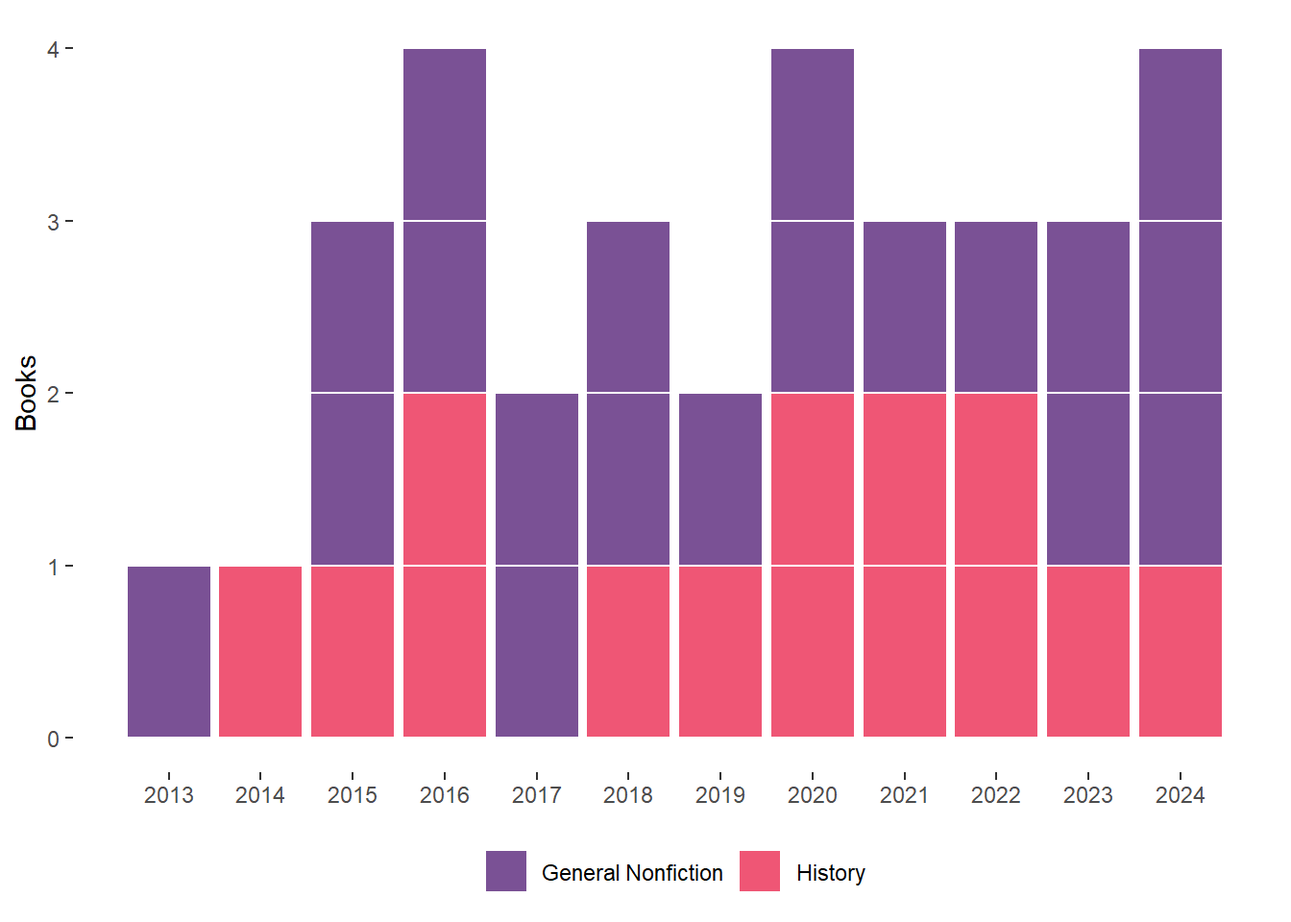
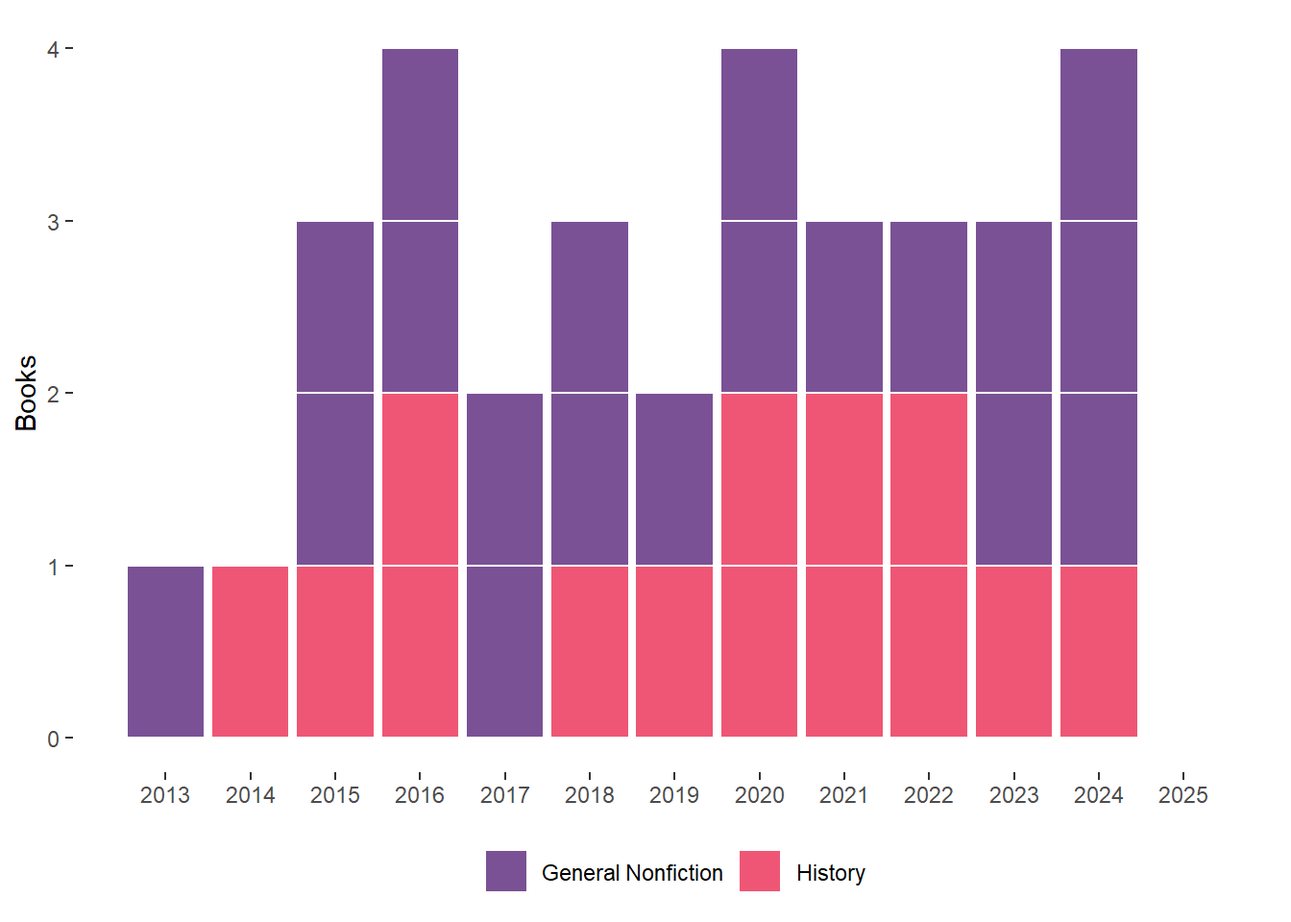
Add books read and update pulitzer list for 2025

diff --git a/pullitzer.html b/pullitzer.html
@@ -296,8 +296,8 @@ class="section level5">
 <h2>The full list</h2>
 <p>These are the finalists and winners of general nonfiction and
 history, and my progress in reading them.</p>
-<div class="reactable html-widget html-fill-item" id="htmlwidget-c6555e027a86d96b22d3" style="width:auto;height:auto;"></div>
-<script type="application/json" data-for="htmlwidget-c6555e027a86d96b22d3">{"x":{"tag":{"name":"Reactable","attribs":{"data":{"year":[2024,2024,2024,2024,2024,2024,2023,2023,2023,2023,2023,2023,2023,2022,2022,2022,2022,2022,2022,2021,2021,2021,2021,2021,2021,2020,2020,2020,2020,2020,2020,2019,2019,2019,2019,2019,2019,2018,2018,2018,2018,2018,2018,2017,2017,2017,2017,2017,2017,2016,2016,2016,2016,2016,2016,2016,2015,2015,2015,2015,2015,2015,2014,2014,2014,2014,2014,2014,2013,2013,2013,2013,2013,2013,2012,2012,2012,2012,2012,2012,2012,2011,2011,2011,2011,2011,2011,2010,2010,2010],"short.title":["No Right to an Honest Living","American Anarchy","Continental Reckoning","A Day in the Life of Abed Salama","Fire Weather","Cobalt Red","Freedom's Dominion","Seeing Red","Watergate","His Name Is George Floyd","Kingdom of Characters","Sounds Wild and Broken","Under the Skin","Covered with Night","Cuba","Until Justice Be Done","Invisible Child","Home, Land, Security","The Family Roe","Franchise","The Three-Cornered War","The Deviant's War","Wilmington's Lie","Minor Feelings","Yellow Bird","Sweet Taste of Liberty ","Race for Profit","The End of the Myth ","The Undying","Solitary","Elderhood","Frederick Douglass ","American Eden ","Civilizing Torture ","Amity and Prosperity","In a Day's Work","Rising","The Gulf","Fear City","Hitler in Los Angeles ","Locking Up Our Own ","Notes on a Foreign Country ","The Evolution of Beauty","Blood in the Water ","Brothers at Arms","New England Bound","Evicted","In a Different Key ","The Politics of Mourning ","Custer's Trials","Marching Home","Target Tokyo","The Pentagon's Brain","Black Flags","Between the World and Me","If the Oceans Were Ink ","Encounters at the Heart of the World","An Empire on the Edge","Empire of Cotton","The Sixth Extinction","Age of Ambition","No Good Men Among the Living","The Internal Enemy","A Dreadful Deceit","Command and Control","Toms River","The Blood Telegram","The Insurgents","Embers of War","Lincoln's Code","The Barbarous Years","Devil in the Grove","Behind the Beautiful Forevers","The Forest Unseen","Malcolm X","Empires, Nations & Families","Railroaded","The Eleventh Day","The Swerve","One Hundred Names For Love","Unnatural Selection","The Fiery Trial","Confederate Reckoning","Eden on the Charles","The Emperor of All Maladies","Empire of the Summer Moon","The Shallows","Lords of Finance","Empire of Liberty","Fordlandia"],"author":["Jacqueline Jones","Michael Willrich","Elliott West","Nathan Thrall","John Vaillant","Siddharth Kara","Jefferson Cowie","Michael John Witgen","Garrett M. Graff","Robert Samuels and Toluse Olorunnipa","Jing Tsu","David George Haskell","Linda Villarosa","Nicole Eustace","Ada Ferrer","Kate Masur","Andrea Elliott","Carla Power","Joshua Prager","Marcia Chatelain","Megan Kate Nelson","Eric Cervini","David Zucchino","Cathy Park Hong","Sierra Crane Murdoch","W. Caleb McDaniel","Keeanga-Yamhatta Taylor","Greg Grandin","Anne Boyer","Albert Woodfox","Louise Aronson","David W. Blight","Victoria Johnson","W. Fitzhugh Brundage","Eliza Griswold","Bernice Yeung","Elizabeth Rush","Jack E. Davis","Kim Phillips-Fein","Steven J. Ross","James Forman Jr.","Suzy Hansen","Richard O. Prum","Heather Ann Thompson","Larrie D. Ferreiro","Wendy Warren","Matthew Desmond","John Donvan and Caren Zucker","Micki McElya","T.J. Stiles","Brian Matthew Jordan","James M. Scott","Annie Jacobsen","Joby Warrick","Ta-Nehisi Coates","Carla Power","Elizabeth A. Fenn","Nick Bunker","Steven Beckert","Elizabeth Kolbert","Evan Osnos","Anand Gopal","Alan Taylor","Jacqueline Jones","Eric Schlosser","Dan Fagin","Gary J. Bass","Fred Kaplan","Fredrik Logeval","John Fabian Witt","Bernard Bailyn","Gilbert King","Katherine Boo","David George Haskell","Manning Marable","Anne F. Hyde","Richard White","Anthony Summers and Robbyn Swan","Stephen Greenblatt","Diane Ackerman","Mara Hvistendahl","Eric Foner","Stephanie McCurry","Michael Rawson","Siddhartha Mukherjee","S.C. Gwynne","Nicholas Carr","Liaquat Ahamed","Gordon S. Wood","Greg Grandin"],"read":["No","Yes","No","Yes","Yes","Yes","No","No","Yes","No","Yes","No","Yes","Yes","Yes","No","No","Yes","No","Yes","Yes","No","No","No","Yes","Yes","Yes","Yes","No","Yes","No","No","No","Yes","Yes","No","No","Yes","No","No","Yes","No","Yes","No","No","No","Yes","Yes","No","Yes","No","No","Yes","Yes","Yes","No","Yes","No","No","No","Yes","Yes","No","No","Yes","No","No","No","No","No","No","No","Yes","No","No","No","No","No","No","No","No","No","No","No","No","No","No","No","No","No"],"award":["Winner","Finalist","Finalist","Winner","Finalist","Finalist","Winner","Finalist","Finalist","Winner","Finalist","Finalist","Finalist","Winner","Winner","Finalist","Winner","Finalist","Finalist","Winner","Finalist","Finalist","Winner","Finalist","Finalist","Winner","Finalist","Winner","Winner","Finalist","Finalist","Winner","Finalist","Finalist","Winner","Finalist","Finalist","Winner","Finalist","Finalist","Winner","Finalist","Finalist","Winner","Finalist","Finalist","Winner","Finalist","Finalist","Winner","Finalist","Finalist","Finalist","Winner","Finalist","Finalist","Winner","Finalist","Finalist","Winner","Finalist","Finalist","Winner","Finalist","Finalist","Winner","Finalist","Finalist","Winner","Finalist","Finalist","Winner","Finalist","Finalist","Winner","Finalist","Finalist","Finalist","Winner","Finalist","Finalist","Winner","Finalist","Finalist","Winner","Finalist","Finalist","Winner","Finalist","Finalist"],"category":["History","History","History","General Non-Fiction","General Non-Fiction","General Non-Fiction","History","History","History","General Non-Fiction","General Non-Fiction","General Non-Fiction","General Non-Fiction","History","History","History","General Non-Fiction","General Non-Fiction","General Non-Fiction","History","History","History","General Non-Fiction","General Non-Fiction","General Non-Fiction","History","History","General Non-Fiction","General Non-Fiction","General Non-Fiction","General Non-Fiction","History","History","History","General Non-Fiction","General Non-Fiction","General Non-Fiction","History","History","History","General Non-Fiction","General Non-Fiction","General Non-Fiction","History","History","History","General Non-Fiction","General Non-Fiction","General Non-Fiction","History","History","History","History","General Non-Fiction","General Non-Fiction","General Non-Fiction","History","History","History","General Non-Fiction","General Non-Fiction","General Non-Fiction","History","History","History","General Non-Fiction","General Non-Fiction","General Non-Fiction","History","History","History","General Non-Fiction","General Non-Fiction","General Non-Fiction","History","History","History","History","General Non-Fiction","General Non-Fiction","General Non-Fiction","History","History","History","General Non-Fiction","General Non-Fiction","General Non-Fiction","History","History","History"]},"columns":[{"id":"year","name":"Year","type":"numeric"},{"id":"short.title","name":"Title","type":"character","minWidth":150},{"id":"author","name":"Author","type":"character"},{"id":"read","name":"Read","type":"character","cell":["❌","✔","❌","✔","✔","✔","❌","❌","✔","❌","✔","❌","✔","✔","✔","❌","❌","✔","❌","✔","✔","❌","❌","❌","✔","✔","✔","✔","❌","✔","❌","❌","❌","✔","✔","❌","❌","✔","❌","❌","✔","❌","✔","❌","❌","❌","✔","✔","❌","✔","❌","❌","✔","✔","✔","❌","✔","❌","❌","❌","✔","✔","❌","❌","✔","❌","❌","❌","❌","❌","❌","❌","✔","❌","❌","❌","❌","❌","❌","❌","❌","❌","❌","❌","❌","❌","❌","❌","❌","❌"],"maxWidth":75},{"id":"award","name":"Award","type":"character"},{"id":"category","name":"Category","type":"character"}],"defaultPageSize":20,"showSortable":true,"rowStyle":[null,{"fontWeight":"bold"},null,{"fontWeight":"bold"},{"fontWeight":"bold"},{"fontWeight":"bold"},null,null,{"fontWeight":"bold"},null,{"fontWeight":"bold"},null,{"fontWeight":"bold"},{"fontWeight":"bold"},{"fontWeight":"bold"},null,null,{"fontWeight":"bold"},null,{"fontWeight":"bold"},{"fontWeight":"bold"},null,null,null,{"fontWeight":"bold"},{"fontWeight":"bold"},{"fontWeight":"bold"},{"fontWeight":"bold"},null,{"fontWeight":"bold"},null,null,null,{"fontWeight":"bold"},{"fontWeight":"bold"},null,null,{"fontWeight":"bold"},null,null,{"fontWeight":"bold"},null,{"fontWeight":"bold"},null,null,null,{"fontWeight":"bold"},{"fontWeight":"bold"},null,{"fontWeight":"bold"},null,null,{"fontWeight":"bold"},{"fontWeight":"bold"},{"fontWeight":"bold"},null,{"fontWeight":"bold"},null,null,null,{"fontWeight":"bold"},{"fontWeight":"bold"},null,null,{"fontWeight":"bold"},null,null,null,null,null,null,null,{"fontWeight":"bold"},null,null,null,null,null,null,null,null,null,null,null,null,null,null,null,null,null],"dataKey":"73d61f52f0b6af35e8cd9219f96937dc"},"children":[]},"class":"reactR_markup"},"evals":[],"jsHooks":[]}</script>
+<div class="reactable html-widget html-fill-item" id="htmlwidget-2825f1b96f14a9cafac9" style="width:auto;height:auto;"></div>
+<script type="application/json" data-for="htmlwidget-2825f1b96f14a9cafac9">{"x":{"tag":{"name":"Reactable","attribs":{"data":{"year":[2025,2025,2025,2025,2025,2025,2024,2024,2024,2024,2024,2024,2023,2023,2023,2023,2023,2023,2023,2022,2022,2022,2022,2022,2022,2021,2021,2021,2021,2021,2021,2020,2020,2020,2020,2020,2020,2019,2019,2019,2019,2019,2019,2018,2018,2018,2018,2018,2018,2017,2017,2017,2017,2017,2017,2016,2016,2016,2016,2016,2016,2016,2015,2015,2015,2015,2015,2015,2014,2014,2014,2014,2014,2014,2013,2013,2013,2013,2013,2013,2012,2012,2012,2012,2012,2012,2012,2011,2011,2011,2011,2011,2011,2010,2010,2010],"short.title":["Combee","Native Nations","Plantation Goods","To the Success of Our Hopeless Cause","I Am on the Hit List","Until I Find You","No Right to an Honest Living","American Anarchy","Continental Reckoning","A Day in the Life of Abed Salama","Fire Weather","Cobalt Red","Freedom's Dominion","Seeing Red","Watergate","His Name Is George Floyd","Kingdom of Characters","Sounds Wild and Broken","Under the Skin","Covered with Night","Cuba","Until Justice Be Done","Invisible Child","Home, Land, Security","The Family Roe","Franchise","The Three-Cornered War","The Deviant's War","Wilmington's Lie","Minor Feelings","Yellow Bird","Sweet Taste of Liberty ","Race for Profit","The End of the Myth ","The Undying","Solitary","Elderhood","Frederick Douglass ","American Eden ","Civilizing Torture ","Amity and Prosperity","In a Day's Work","Rising","The Gulf","Fear City","Hitler in Los Angeles ","Locking Up Our Own ","Notes on a Foreign Country ","The Evolution of Beauty","Blood in the Water ","Brothers at Arms","New England Bound","Evicted","In a Different Key ","The Politics of Mourning ","Custer's Trials","Marching Home","Target Tokyo","The Pentagon's Brain","Black Flags","Between the World and Me","If the Oceans Were Ink ","Encounters at the Heart of the World","An Empire on the Edge","Empire of Cotton","The Sixth Extinction","Age of Ambition","No Good Men Among the Living","The Internal Enemy","A Dreadful Deceit","Command and Control","Toms River","The Blood Telegram","The Insurgents","Embers of War","Lincoln's Code","The Barbarous Years","Devil in the Grove","Behind the Beautiful Forevers","The Forest Unseen","Malcolm X","Empires, Nations & Families","Railroaded","The Eleventh Day","The Swerve","One Hundred Names For Love","Unnatural Selection","The Fiery Trial","Confederate Reckoning","Eden on the Charles","The Emperor of All Maladies","Empire of the Summer Moon","The Shallows","Lords of Finance","Empire of Liberty","Fordlandia"],"author":["Edda L. Fields-Black","Kathleen DuVal","Seth Rockman","Benjamin Nathans","Rollo Romig","Rachel Nolan","Jacqueline Jones","Michael Willrich","Elliott West","Nathan Thrall","John Vaillant","Siddharth Kara","Jefferson Cowie","Michael John Witgen","Garrett M. Graff","Robert Samuels and Toluse Olorunnipa","Jing Tsu","David George Haskell","Linda Villarosa","Nicole Eustace","Ada Ferrer","Kate Masur","Andrea Elliott","Carla Power","Joshua Prager","Marcia Chatelain","Megan Kate Nelson","Eric Cervini","David Zucchino","Cathy Park Hong","Sierra Crane Murdoch","W. Caleb McDaniel","Keeanga-Yamhatta Taylor","Greg Grandin","Anne Boyer","Albert Woodfox","Louise Aronson","David W. Blight","Victoria Johnson","W. Fitzhugh Brundage","Eliza Griswold","Bernice Yeung","Elizabeth Rush","Jack E. Davis","Kim Phillips-Fein","Steven J. Ross","James Forman Jr.","Suzy Hansen","Richard O. Prum","Heather Ann Thompson","Larrie D. Ferreiro","Wendy Warren","Matthew Desmond","John Donvan and Caren Zucker","Micki McElya","T.J. Stiles","Brian Matthew Jordan","James M. Scott","Annie Jacobsen","Joby Warrick","Ta-Nehisi Coates","Carla Power","Elizabeth A. Fenn","Nick Bunker","Steven Beckert","Elizabeth Kolbert","Evan Osnos","Anand Gopal","Alan Taylor","Jacqueline Jones","Eric Schlosser","Dan Fagin","Gary J. Bass","Fred Kaplan","Fredrik Logeval","John Fabian Witt","Bernard Bailyn","Gilbert King","Katherine Boo","David George Haskell","Manning Marable","Anne F. Hyde","Richard White","Anthony Summers and Robbyn Swan","Stephen Greenblatt","Diane Ackerman","Mara Hvistendahl","Eric Foner","Stephanie McCurry","Michael Rawson","Siddhartha Mukherjee","S.C. Gwynne","Nicholas Carr","Liaquat Ahamed","Gordon S. Wood","Greg Grandin"],"read":["No","No","No","No","No","No","No","Yes","No","Yes","Yes","Yes","No","No","Yes","No","Yes","No","Yes","Yes","Yes","No","No","Yes","No","Yes","Yes","No","No","No","Yes","Yes","Yes","Yes","No","Yes","No","No","No","Yes","Yes","No","No","Yes","No","No","Yes","No","Yes","No","No","No","Yes","Yes","No","Yes","No","No","Yes","Yes","Yes","No","Yes","No","No","No","Yes","Yes","No","No","Yes","No","No","No","No","No","No","No","Yes","No","No","No","No","No","No","No","No","No","No","No","No","No","No","No","No","No"],"award":["Winner","Winner","Finalist","Winner","Finalist","Finalist","Winner","Finalist","Finalist","Winner","Finalist","Finalist","Winner","Finalist","Finalist","Winner","Finalist","Finalist","Finalist","Winner","Winner","Finalist","Winner","Finalist","Finalist","Winner","Finalist","Finalist","Winner","Finalist","Finalist","Winner","Finalist","Winner","Winner","Finalist","Finalist","Winner","Finalist","Finalist","Winner","Finalist","Finalist","Winner","Finalist","Finalist","Winner","Finalist","Finalist","Winner","Finalist","Finalist","Winner","Finalist","Finalist","Winner","Finalist","Finalist","Finalist","Winner","Finalist","Finalist","Winner","Finalist","Finalist","Winner","Finalist","Finalist","Winner","Finalist","Finalist","Winner","Finalist","Finalist","Winner","Finalist","Finalist","Winner","Finalist","Finalist","Winner","Finalist","Finalist","Finalist","Winner","Finalist","Finalist","Winner","Finalist","Finalist","Winner","Finalist","Finalist","Winner","Finalist","Finalist"],"category":["History","History","History","General Non-Fiction","General Non-Fiction","General Non-Fiction","History","History","History","General Non-Fiction","General Non-Fiction","General Non-Fiction","History","History","History","General Non-Fiction","General Non-Fiction","General Non-Fiction","General Non-Fiction","History","History","History","General Non-Fiction","General Non-Fiction","General Non-Fiction","History","History","History","General Non-Fiction","General Non-Fiction","General Non-Fiction","History","History","General Non-Fiction","General Non-Fiction","General Non-Fiction","General Non-Fiction","History","History","History","General Non-Fiction","General Non-Fiction","General Non-Fiction","History","History","History","General Non-Fiction","General Non-Fiction","General Non-Fiction","History","History","History","General Non-Fiction","General Non-Fiction","General Non-Fiction","History","History","History","History","General Non-Fiction","General Non-Fiction","General Non-Fiction","History","History","History","General Non-Fiction","General Non-Fiction","General Non-Fiction","History","History","History","General Non-Fiction","General Non-Fiction","General Non-Fiction","History","History","History","General Non-Fiction","General Non-Fiction","General Non-Fiction","History","History","History","History","General Non-Fiction","General Non-Fiction","General Non-Fiction","History","History","History","General Non-Fiction","General Non-Fiction","General Non-Fiction","History","History","History"]},"columns":[{"id":"year","name":"Year","type":"numeric"},{"id":"short.title","name":"Title","type":"character","minWidth":150},{"id":"author","name":"Author","type":"character"},{"id":"read","name":"Read","type":"character","cell":["❌","❌","❌","❌","❌","❌","❌","✔","❌","✔","✔","✔","❌","❌","✔","❌","✔","❌","✔","✔","✔","❌","❌","✔","❌","✔","✔","❌","❌","❌","✔","✔","✔","✔","❌","✔","❌","❌","❌","✔","✔","❌","❌","✔","❌","❌","✔","❌","✔","❌","❌","❌","✔","✔","❌","✔","❌","❌","✔","✔","✔","❌","✔","❌","❌","❌","✔","✔","❌","❌","✔","❌","❌","❌","❌","❌","❌","❌","✔","❌","❌","❌","❌","❌","❌","❌","❌","❌","❌","❌","❌","❌","❌","❌","❌","❌"],"maxWidth":75},{"id":"award","name":"Award","type":"character"},{"id":"category","name":"Category","type":"character"}],"defaultPageSize":20,"showSortable":true,"rowStyle":[null,null,null,null,null,null,null,{"fontWeight":"bold"},null,{"fontWeight":"bold"},{"fontWeight":"bold"},{"fontWeight":"bold"},null,null,{"fontWeight":"bold"},null,{"fontWeight":"bold"},null,{"fontWeight":"bold"},{"fontWeight":"bold"},{"fontWeight":"bold"},null,null,{"fontWeight":"bold"},null,{"fontWeight":"bold"},{"fontWeight":"bold"},null,null,null,{"fontWeight":"bold"},{"fontWeight":"bold"},{"fontWeight":"bold"},{"fontWeight":"bold"},null,{"fontWeight":"bold"},null,null,null,{"fontWeight":"bold"},{"fontWeight":"bold"},null,null,{"fontWeight":"bold"},null,null,{"fontWeight":"bold"},null,{"fontWeight":"bold"},null,null,null,{"fontWeight":"bold"},{"fontWeight":"bold"},null,{"fontWeight":"bold"},null,null,{"fontWeight":"bold"},{"fontWeight":"bold"},{"fontWeight":"bold"},null,{"fontWeight":"bold"},null,null,null,{"fontWeight":"bold"},{"fontWeight":"bold"},null,null,{"fontWeight":"bold"},null,null,null,null,null,null,null,{"fontWeight":"bold"},null,null,null,null,null,null,null,null,null,null,null,null,null,null,null,null,null],"dataKey":"6bc2ac156935ea66a441aca3f95cc2f5"},"children":[]},"class":"reactR_markup"},"evals":[],"jsHooks":[]}</script>
 </div>
 
 

diff --git a/index.html b/index.html
@@ -290,13 +290,13 @@ that.</p>
 <h3>How I’m doing</h3>
 <p>There was early progress, and then a decline, and I’m working my way
 back. It’s a journey.</p>
-<div class="plotly html-widget html-fill-item" id="htmlwidget-57f883591b92fb9cdf9b" style="width:100%;height:480px;"></div>
-<script type="application/json" data-for="htmlwidget-57f883591b92fb9cdf9b">{"x":{"visdat":{"18985b967f9a":["function () ","plotlyVisDat"]},"cur_data":"18985b967f9a","attrs":{"18985b967f9a":{"x":{},"y":{},"mode":"lines+markers","fill":"tozeroy","alpha_stroke":1,"sizes":[10,100],"spans":[1,20],"type":"scatter"}},"layout":{"margin":{"b":40,"l":60,"t":25,"r":10},"shapes":[{"type":"line","x0":2017,"x1":2025,"y0":24,"y1":24,"line":{"width":2,"dash":"dot"}}],"yaxis":{"domain":[0,1],"automargin":true,"showline":false,"showticklabels":true,"tickcolor":"rgb(127,127,127)","ticks":"outside","zeroline":false,"range":[0,32],"dtick":4,"zerolinewidth":2,"title":"Books"},"xaxis":{"domain":[0,1],"automargin":true,"showline":true,"zerolinewidth":6,"title":"Year"},"hovermode":"closest","showlegend":false},"source":"A","config":{"modeBarButtonsToAdd":["hoverclosest","hovercompare"],"showSendToCloud":false,"responsive":true,"displayModeBar":false},"data":[{"fillcolor":"rgba(31,119,180,0.5)","x":[2017,2018,2019,2020,2021,2022,2023,2024,2025],"y":[18,23,23,9,10,21,18,16,7],"mode":"lines+markers","fill":"tozeroy","type":"scatter","marker":{"color":"rgba(31,119,180,1)","line":{"color":"rgba(31,119,180,1)"}},"error_y":{"color":"rgba(31,119,180,1)"},"error_x":{"color":"rgba(31,119,180,1)"},"line":{"color":"rgba(31,119,180,1)"},"xaxis":"x","yaxis":"y","frame":null}],"highlight":{"on":"plotly_click","persistent":false,"dynamic":false,"selectize":false,"opacityDim":0.20000000000000001,"selected":{"opacity":1},"debounce":0},"shinyEvents":["plotly_hover","plotly_click","plotly_selected","plotly_relayout","plotly_brushed","plotly_brushing","plotly_clickannotation","plotly_doubleclick","plotly_deselect","plotly_afterplot","plotly_sunburstclick"],"base_url":"https://plot.ly"},"evals":[],"jsHooks":[]}</script>
+<div class="plotly html-widget html-fill-item" id="htmlwidget-bb172981ce2422675941" style="width:100%;height:480px;"></div>
+<script type="application/json" data-for="htmlwidget-bb172981ce2422675941">{"x":{"visdat":{"9f6038d17547":["function () ","plotlyVisDat"]},"cur_data":"9f6038d17547","attrs":{"9f6038d17547":{"x":{},"y":{},"mode":"lines+markers","fill":"tozeroy","alpha_stroke":1,"sizes":[10,100],"spans":[1,20],"type":"scatter"}},"layout":{"margin":{"b":40,"l":60,"t":25,"r":10},"shapes":[{"type":"line","x0":2017,"x1":2025,"y0":24,"y1":24,"line":{"width":2,"dash":"dot"}}],"yaxis":{"domain":[0,1],"automargin":true,"showline":false,"showticklabels":true,"tickcolor":"rgb(127,127,127)","ticks":"outside","zeroline":false,"range":[0,32],"dtick":4,"zerolinewidth":2,"title":"Books"},"xaxis":{"domain":[0,1],"automargin":true,"showline":true,"zerolinewidth":6,"title":"Year"},"hovermode":"closest","showlegend":false},"source":"A","config":{"modeBarButtonsToAdd":["hoverclosest","hovercompare"],"showSendToCloud":false,"responsive":true,"displayModeBar":false},"data":[{"fillcolor":"rgba(31,119,180,0.5)","x":[2017,2018,2019,2020,2021,2022,2023,2024,2025],"y":[18,23,23,9,10,21,18,16,9],"mode":"lines+markers","fill":"tozeroy","type":"scatter","marker":{"color":"rgba(31,119,180,1)","line":{"color":"rgba(31,119,180,1)"}},"error_y":{"color":"rgba(31,119,180,1)"},"error_x":{"color":"rgba(31,119,180,1)"},"line":{"color":"rgba(31,119,180,1)"},"xaxis":"x","yaxis":"y","frame":null}],"highlight":{"on":"plotly_click","persistent":false,"dynamic":false,"selectize":false,"opacityDim":0.20000000000000001,"selected":{"opacity":1},"debounce":0},"shinyEvents":["plotly_hover","plotly_click","plotly_selected","plotly_relayout","plotly_brushed","plotly_brushing","plotly_clickannotation","plotly_doubleclick","plotly_deselect","plotly_afterplot","plotly_sunburstclick"],"base_url":"https://plot.ly"},"evals":[],"jsHooks":[]}</script>
 </div>
 <div id="what-have-i-read-this-year" class="section level3">
 <h3>What have I read this year?</h3>
-<div class="reactable html-widget html-fill-item" id="htmlwidget-48f6b4558861ba382229" style="width:auto;height:auto;"></div>
-<script type="application/json" data-for="htmlwidget-48f6b4558861ba382229">{"x":{"tag":{"name":"Reactable","attribs":{"data":{"Order":[7,6,5,4,3,2,1],"Title":["From a Native Daughter: Colonialism and Sovereignty in Hawaii","This Is Paradise","Eat Stop Eat","An Indigenous Peoples' History of the United States","The Return","American Anarchy: The Epic Struggle between Immigrant Radicals and the US Government at the Dawn of the Twentieth Century","The Sympathizer"],"Author":["Haunani-Kay Trask","Kristiana Kahakauwila","Brad Pilon","Roxanne Dunbar-Ortiz","Hisham Matar","Michael Willrich","Viet Thanh Nguyen"]},"columns":[{"id":"Order","name":"Order","type":"numeric","maxWidth":75},{"id":"Title","name":"Title","type":"character"},{"id":"Author","name":"Author","type":"character","maxWidth":300}],"showSortable":true,"dataKey":"461ed7625e40c07fdbb37d968e1375f5"},"children":[]},"class":"reactR_markup"},"evals":[],"jsHooks":[]}</script>
+<div class="reactable html-widget html-fill-item" id="htmlwidget-bf9f9ba3f019ed759550" style="width:auto;height:auto;"></div>
+<script type="application/json" data-for="htmlwidget-bf9f9ba3f019ed759550">{"x":{"tag":{"name":"Reactable","attribs":{"data":{"Order":[9,8,7,6,5,4,3,2,1],"Title":["What an Owl Knows: The New Science of the World's Most Enigmatic Birds","City of Thieves","From a Native Daughter: Colonialism and Sovereignty in Hawaii","This Is Paradise","Eat Stop Eat","An Indigenous Peoples' History of the United States","The Return","American Anarchy: The Epic Struggle between Immigrant Radicals and the US Government at the Dawn of the Twentieth Century","The Sympathizer"],"Author":["Jennifer Ackerman","David Benioff","Haunani-Kay Trask","Kristiana Kahakauwila","Brad Pilon","Roxanne Dunbar-Ortiz","Hisham Matar","Michael Willrich","Viet Thanh Nguyen"]},"columns":[{"id":"Order","name":"Order","type":"numeric","maxWidth":75},{"id":"Title","name":"Title","type":"character"},{"id":"Author","name":"Author","type":"character","maxWidth":300}],"showSortable":true,"dataKey":"8a2c7b11dda3e0aa92a16661b54e1ecf"},"children":[]},"class":"reactR_markup"},"evals":[],"jsHooks":[]}</script>
 </div>
 
 

diff --git a/authors.html b/authors.html
@@ -281,8 +281,8 @@ reading. Ideally, the books I read will not only entertain me, but
 expand my worldview. There are lots of ways to think and measure that,
 but a simple one is to track the backgrounds of the authors, so I’m
 starting there.</p>
-<div class="plotly html-widget html-fill-item" id="htmlwidget-1fbd224deca041a147b7" style="width:100%;height:480px;"></div>
-<script type="application/json" data-for="htmlwidget-1fbd224deca041a147b7">{"x":{"visdat":{"79dc7e1f6c67":["function () ","plotlyVisDat"]},"cur_data":"79dc7e1f6c67","attrs":{"79dc7e1f6c67":{"x":{},"y":{},"mode":"lines+markers","name":"Authors of Color","alpha_stroke":1,"sizes":[10,100],"spans":[1,20],"type":"scatter"},"79dc7e1f6c67.1":{"x":{},"y":{},"mode":"lines+markers","name":"Female Authors","alpha_stroke":1,"sizes":[10,100],"spans":[1,20],"type":"scatter","inherit":true}},"layout":{"margin":{"b":40,"l":60,"t":25,"r":10},"legend":{"orientation":"h"},"yaxis":{"domain":[0,1],"automargin":true,"title":"Percentage"},"xaxis":{"domain":[0,1],"automargin":true,"title":""},"hovermode":"closest","showlegend":true},"source":"A","config":{"modeBarButtonsToAdd":["hoverclosest","hovercompare"],"showSendToCloud":false,"displayModeBar":false},"data":[{"x":[2017,2018,2019,2020,2021,2022,2023,2024,2025],"y":[22.199999999999999,8.6999999999999993,17.399999999999999,33.299999999999997,40,19,16.699999999999999,37.5,71.400000000000006],"mode":"lines+markers","name":"Authors of Color","type":"scatter","marker":{"color":"rgba(31,119,180,1)","line":{"color":"rgba(31,119,180,1)"}},"error_y":{"color":"rgba(31,119,180,1)"},"error_x":{"color":"rgba(31,119,180,1)"},"line":{"color":"rgba(31,119,180,1)"},"xaxis":"x","yaxis":"y","frame":null},{"x":[2017,2018,2019,2020,2021,2022,2023,2024,2025],"y":[22.199999999999999,26.100000000000001,30.399999999999999,11.1,50,38.100000000000001,16.699999999999999,25,42.899999999999999],"mode":"lines+markers","name":"Female Authors","type":"scatter","marker":{"color":"rgba(255,127,14,1)","line":{"color":"rgba(255,127,14,1)"}},"error_y":{"color":"rgba(255,127,14,1)"},"error_x":{"color":"rgba(255,127,14,1)"},"line":{"color":"rgba(255,127,14,1)"},"xaxis":"x","yaxis":"y","frame":null}],"highlight":{"on":"plotly_click","persistent":false,"dynamic":false,"selectize":false,"opacityDim":0.20000000000000001,"selected":{"opacity":1},"debounce":0},"shinyEvents":["plotly_hover","plotly_click","plotly_selected","plotly_relayout","plotly_brushed","plotly_brushing","plotly_clickannotation","plotly_doubleclick","plotly_deselect","plotly_afterplot","plotly_sunburstclick"],"base_url":"https://plot.ly"},"evals":[],"jsHooks":[]}</script>
+<div class="plotly html-widget html-fill-item" id="htmlwidget-6355818cd30c19e0d861" style="width:100%;height:480px;"></div>
+<script type="application/json" data-for="htmlwidget-6355818cd30c19e0d861">{"x":{"visdat":{"50386f8c5477":["function () ","plotlyVisDat"]},"cur_data":"50386f8c5477","attrs":{"50386f8c5477":{"x":{},"y":{},"mode":"lines+markers","name":"Authors of Color","alpha_stroke":1,"sizes":[10,100],"spans":[1,20],"type":"scatter"},"50386f8c5477.1":{"x":{},"y":{},"mode":"lines+markers","name":"Female Authors","alpha_stroke":1,"sizes":[10,100],"spans":[1,20],"type":"scatter","inherit":true}},"layout":{"margin":{"b":40,"l":60,"t":25,"r":10},"legend":{"orientation":"h"},"yaxis":{"domain":[0,1],"automargin":true,"title":"Percentage"},"xaxis":{"domain":[0,1],"automargin":true,"title":""},"hovermode":"closest","showlegend":true},"source":"A","config":{"modeBarButtonsToAdd":["hoverclosest","hovercompare"],"showSendToCloud":false,"displayModeBar":false},"data":[{"x":[2017,2018,2019,2020,2021,2022,2023,2024,2025],"y":[22.199999999999999,8.6999999999999993,17.399999999999999,33.299999999999997,40,19,16.699999999999999,37.5,55.600000000000001],"mode":"lines+markers","name":"Authors of Color","type":"scatter","marker":{"color":"rgba(31,119,180,1)","line":{"color":"rgba(31,119,180,1)"}},"error_y":{"color":"rgba(31,119,180,1)"},"error_x":{"color":"rgba(31,119,180,1)"},"line":{"color":"rgba(31,119,180,1)"},"xaxis":"x","yaxis":"y","frame":null},{"x":[2017,2018,2019,2020,2021,2022,2023,2024,2025],"y":[22.199999999999999,26.100000000000001,30.399999999999999,11.1,50,38.100000000000001,16.699999999999999,25,44.399999999999999],"mode":"lines+markers","name":"Female Authors","type":"scatter","marker":{"color":"rgba(255,127,14,1)","line":{"color":"rgba(255,127,14,1)"}},"error_y":{"color":"rgba(255,127,14,1)"},"error_x":{"color":"rgba(255,127,14,1)"},"line":{"color":"rgba(255,127,14,1)"},"xaxis":"x","yaxis":"y","frame":null}],"highlight":{"on":"plotly_click","persistent":false,"dynamic":false,"selectize":false,"opacityDim":0.20000000000000001,"selected":{"opacity":1},"debounce":0},"shinyEvents":["plotly_hover","plotly_click","plotly_selected","plotly_relayout","plotly_brushed","plotly_brushing","plotly_clickannotation","plotly_doubleclick","plotly_deselect","plotly_afterplot","plotly_sunburstclick"],"base_url":"https://plot.ly"},"evals":[],"jsHooks":[]}</script>
 
 
 
